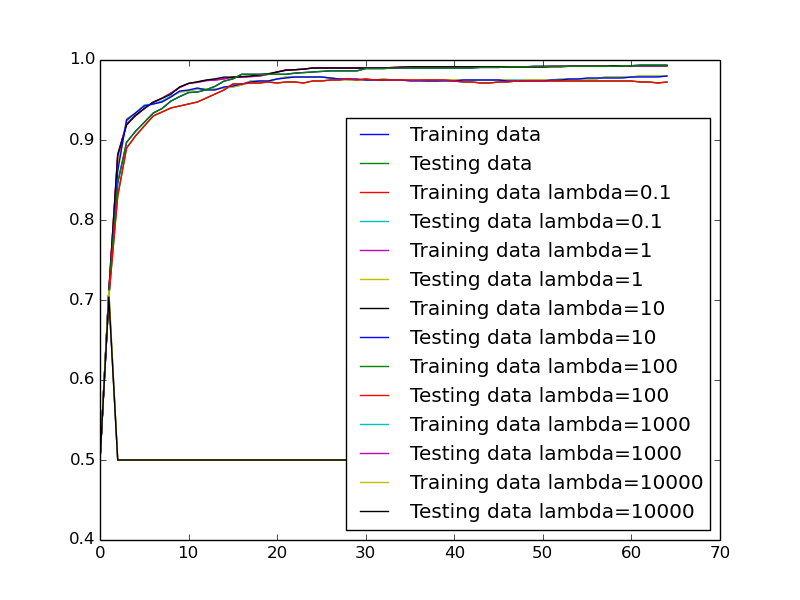
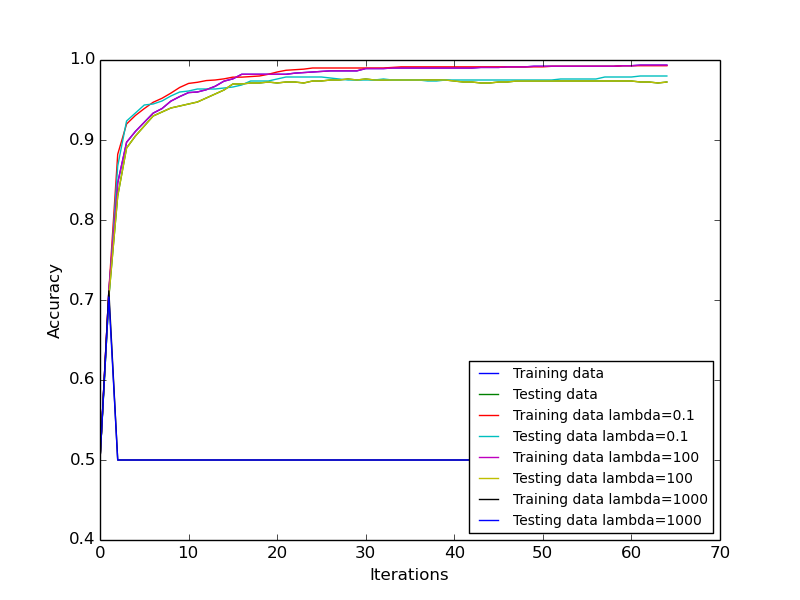
Added final changes, kinda

diff --git a/Assn1/prob2.py b/Assn1/prob2.py
@@ -2,14 +2,13 @@
 # @Date:   2018-04-12T17:23:28-07:00
 # @Filename: prob2.py
 # @Last modified by:   Arthur Shing
-# @Last modified time: 2018-04-16T19:06:16-07:00
+# @Last modified time: 2018-04-16T21:02:17-07:00
 import matplotlib
 matplotlib.use('Agg')
 
 import numpy as np
 import csv
 import matplotlib.pyplot as plt
-import time
 
 def main():
     #stuff
@@ -92,7 +91,7 @@ def problem1():
     # Learning Rate
     learn = 0.000001
     # Iterations
-    epoch = 10
+    epoch = 65
 
     la = 100
 
@@ -108,18 +107,18 @@ def problem1():
     (coefB, accuracyB, accuracyTestB) = trainBatch(x, learn, epoch, w, l, xTest, lTest, 0.1)
     plot(range(epoch), accuracyB, "acctrain2.png", "Training data lambda=0.1")
     plot(range(epoch), accuracyTestB, "acctrain2.png", "Testing data lambda=0.1")
-    (coefB, accuracyB, accuracyTestB) = trainBatch(x, learn, epoch, w, l, xTest, lTest, 10)
-    plot(range(epoch), accuracyB, "acctrain2.png", "Training data lambda=10")
-    plot(range(epoch), accuracyTestB, "acctrain2.png", "Testing data lambda=10")
+    # (coefB, accuracyB, accuracyTestB) = trainBatch(x, learn, epoch, w, l, xTest, lTest, 10)
+    # plot(range(epoch), accuracyB, "acctrain2.png", "Training data lambda=10")
+    # plot(range(epoch), accuracyTestB, "acctrain2.png", "Testing data lambda=10")
     (coefB, accuracyB, accuracyTestB) = trainBatch(x, learn, epoch, w, l, xTest, lTest, 100)
     plot(range(epoch), accuracyB, "acctrain2.png", "Training data lambda=100")
     plot(range(epoch), accuracyTestB, "acctrain2.png", "Testing data lambda=100")
     (coefB, accuracyB, accuracyTestB) = trainBatch(x, learn, epoch, w, l, xTest, lTest, 1000)
     plot(range(epoch), accuracyB, "acctrain2.png", "Training data lambda=1000")
     plot(range(epoch), accuracyTestB, "acctrain2.png", "Testing data lambda=1000")
-    (coefB, accuracyB, accuracyTestB) = trainBatch(x, learn, epoch, w, l, xTest, lTest, 10000)
-    plot(range(epoch), accuracyB, "acctrain2.png", "Training data lambda=10000")
-    plot(range(epoch), accuracyTestB, "acctrain2.png", "Testing data lambda=10000")
+    # (coefB, accuracyB, accuracyTestB) = trainBatch(x, learn, epoch, w, l, xTest, lTest, 10000)
+    # plot(range(epoch), accuracyB, "acctrain2.png", "Training data lambda=10000")
+    # plot(range(epoch), accuracyTestB, "acctrain2.png", "Testing data lambda=10000")
 
 
 
@@ -128,7 +127,9 @@ def problem1():
 # Plots into a png file
 def plot(x, y, fileName, labelName):
     plt.plot(x, y, label=labelName)
-    plt.legend(loc=4, prop={'size:10'})
+    plt.legend(loc=4, prop={'size':10})
+    plt.xlabel('Iterations')
+    plt.ylabel('Accuracy')
     plt.savefig(fileName)
     return
 

diff --git a/Assn1/prob1.py b/Assn1/prob1.py
@@ -2,10 +2,12 @@
 # @Date:   2018-04-12T19:20:42-07:00
 # @Filename: prob1.py
 # @Last modified by:   Arthur Shing
-# @Last modified time: 2018-04-16T20:23:56-07:00
+# @Last modified time: 2018-04-16T20:44:35-07:00
+import matplotlib
+matplotlib.use('Agg')
 
 import numpy
-import matplotlib as mpl
+import matplotlib.pyplot as plt
 numpy.set_printoptions(precision=4, threshold=numpy.inf)
 
 # Returns: X is features data, Y is housing price
@@ -104,11 +106,22 @@ def main():
     print sseTestND
 
     # Problem 4
-    for r in [2,4,6,8,10]:
-        (xRand, yRand) = addRandFeature(r, xTrain, yTrain)
-    wRand = weight(xRand, yRand)
-    sseRand = sse(xTrain, yTrain, wRand)
-    sseRandTest = sse(xTest, yTest, wRand)
+    sseRand = numpy.zeros(5)
+    sseRandTest = numpy.zeros(5)
+    for r in range(5):
+        (xRand, yRand) = addRandFeature((r*2), xTrain, yTrain)
+        wRand = weight(xRand, yRand)
+        sseRand[r] = numpy.asarray(sse(xTrain, yTrain, wRand))
+        sseRandTest[r] = numpy.asarray(sse(xTest, yTest, wRand))
+    plt.subplot(2, 1, 1)
+    plt.title('Random Features ')
+    plt.ylabel('ASE')
+
+    plot(range(0,10,2), sseRand.flatten(), "randfeatures.png", "Training")
+    plt.subplot(2, 1, 2)
+    plt.ylabel('ASE')
+    plt.xlabel('Number of Features')
+    plot(range(0,10,2), sseRandTest.flatten(), "randfeatures.png", "Testing")
 
     print "Problem 4."
     print "Weight vector:"
@@ -117,6 +130,15 @@ def main():
     print sseRand
     print "Testing ASE:"
     print sseRandTest
+
+    return
+
+
+def plot(x, y, fileName, labelName):
+    plt.plot(x, y, label=labelName)
+    plt.legend(loc=4, prop={'size':10})
+    plt.savefig(fileName)
+    return
 
 
 if __name__ == "__main__":
